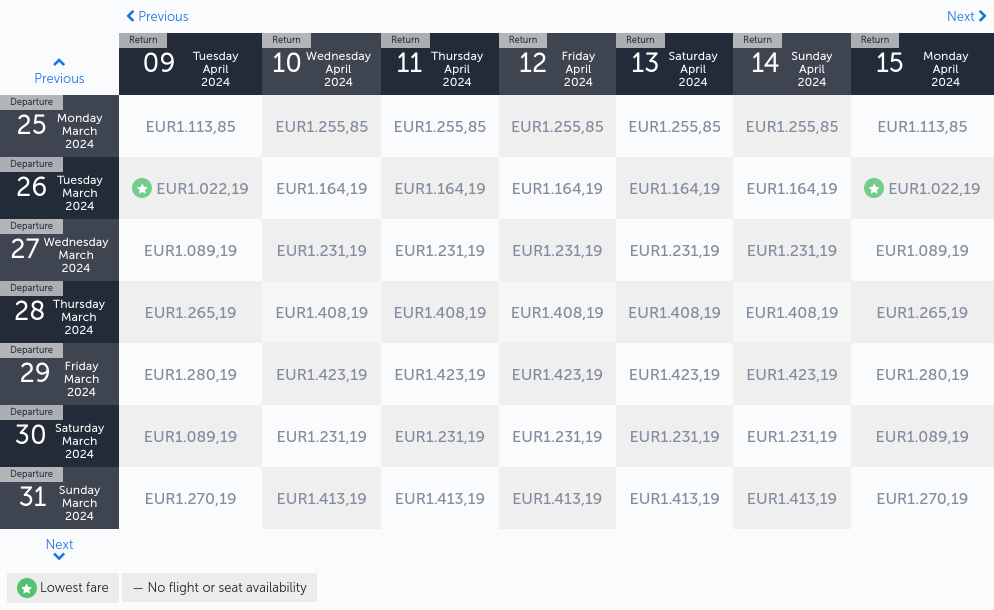
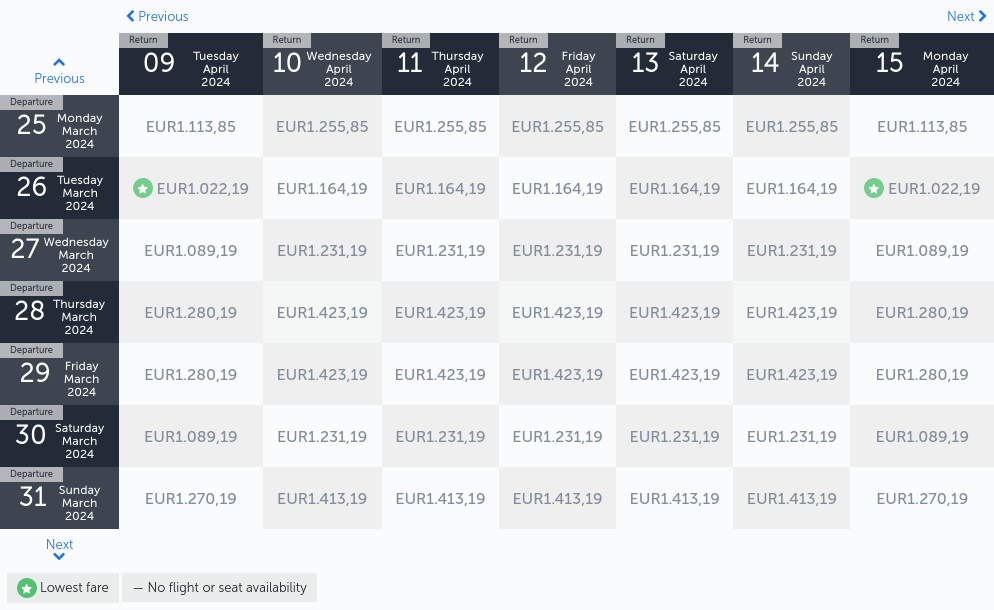
Latest scraping taiwan: Sat Jul  1 10:39:29 UTC 2023

diff --git a/scrapes/taiwan/turkish-airlines.md b/scrapes/taiwan/turkish-airlines.md
@@ -5,7 +5,7 @@
 | Departure<br><br>25 Monday March 2024 | 1.113,85 | 1.255,85 | 1.255,85 | 1.255,85 | 1.255,85 | 1.255,85 | 1.113,85 |
 | Departure<br><br>26 Tuesday March 2024 | 1.022,19 | 1.164,19 | 1.164,19 | 1.164,19 | 1.164,19 | 1.164,19 | 1.022,19 |
 | Departure<br><br>27 Wednesday March 2024 | 1.089,19 | 1.231,19 | 1.231,19 | 1.231,19 | 1.231,19 | 1.231,19 | 1.089,19 |
-| Departure<br><br>28 Thursday March 2024 | 1.265,19 | 1.408,19 | 1.408,19 | 1.408,19 | 1.408,19 | 1.408,19 | 1.265,19 |
+| Departure<br><br>28 Thursday March 2024 | 1.280,19 | 1.423,19 | 1.423,19 | 1.423,19 | 1.423,19 | 1.423,19 | 1.280,19 |
 | Departure<br><br>29 Friday March 2024 | 1.280,19 | 1.423,19 | 1.423,19 | 1.423,19 | 1.423,19 | 1.423,19 | 1.280,19 |
 | Departure<br><br>30 Saturday March 2024 | 1.089,19 | 1.231,19 | 1.231,19 | 1.231,19 | 1.231,19 | 1.231,19 | 1.089,19 |
 | Departure<br><br>31 Sunday March 2024 | 1.270,19 | 1.413,19 | 1.413,19 | 1.413,19 | 1.413,19 | 1.413,19 | 1.270,19 |
